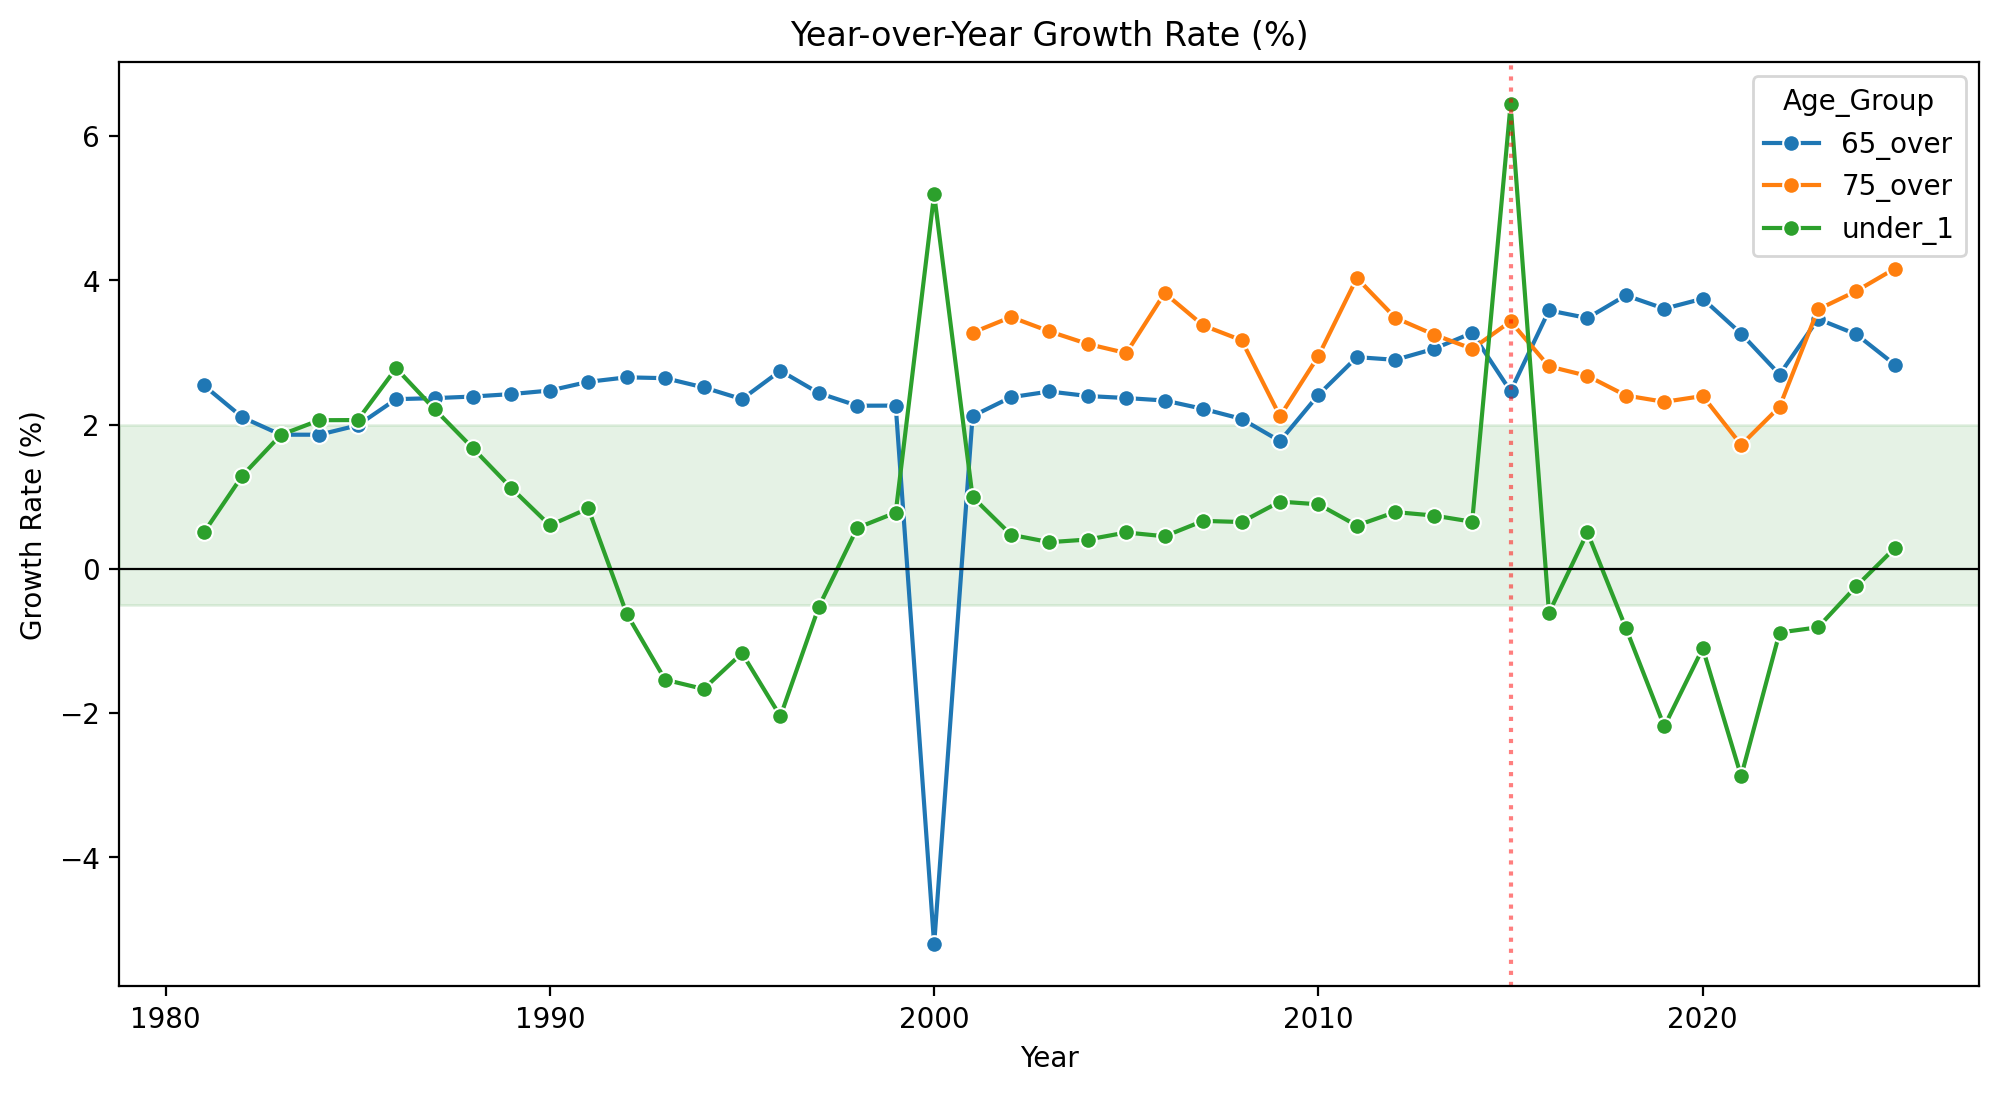
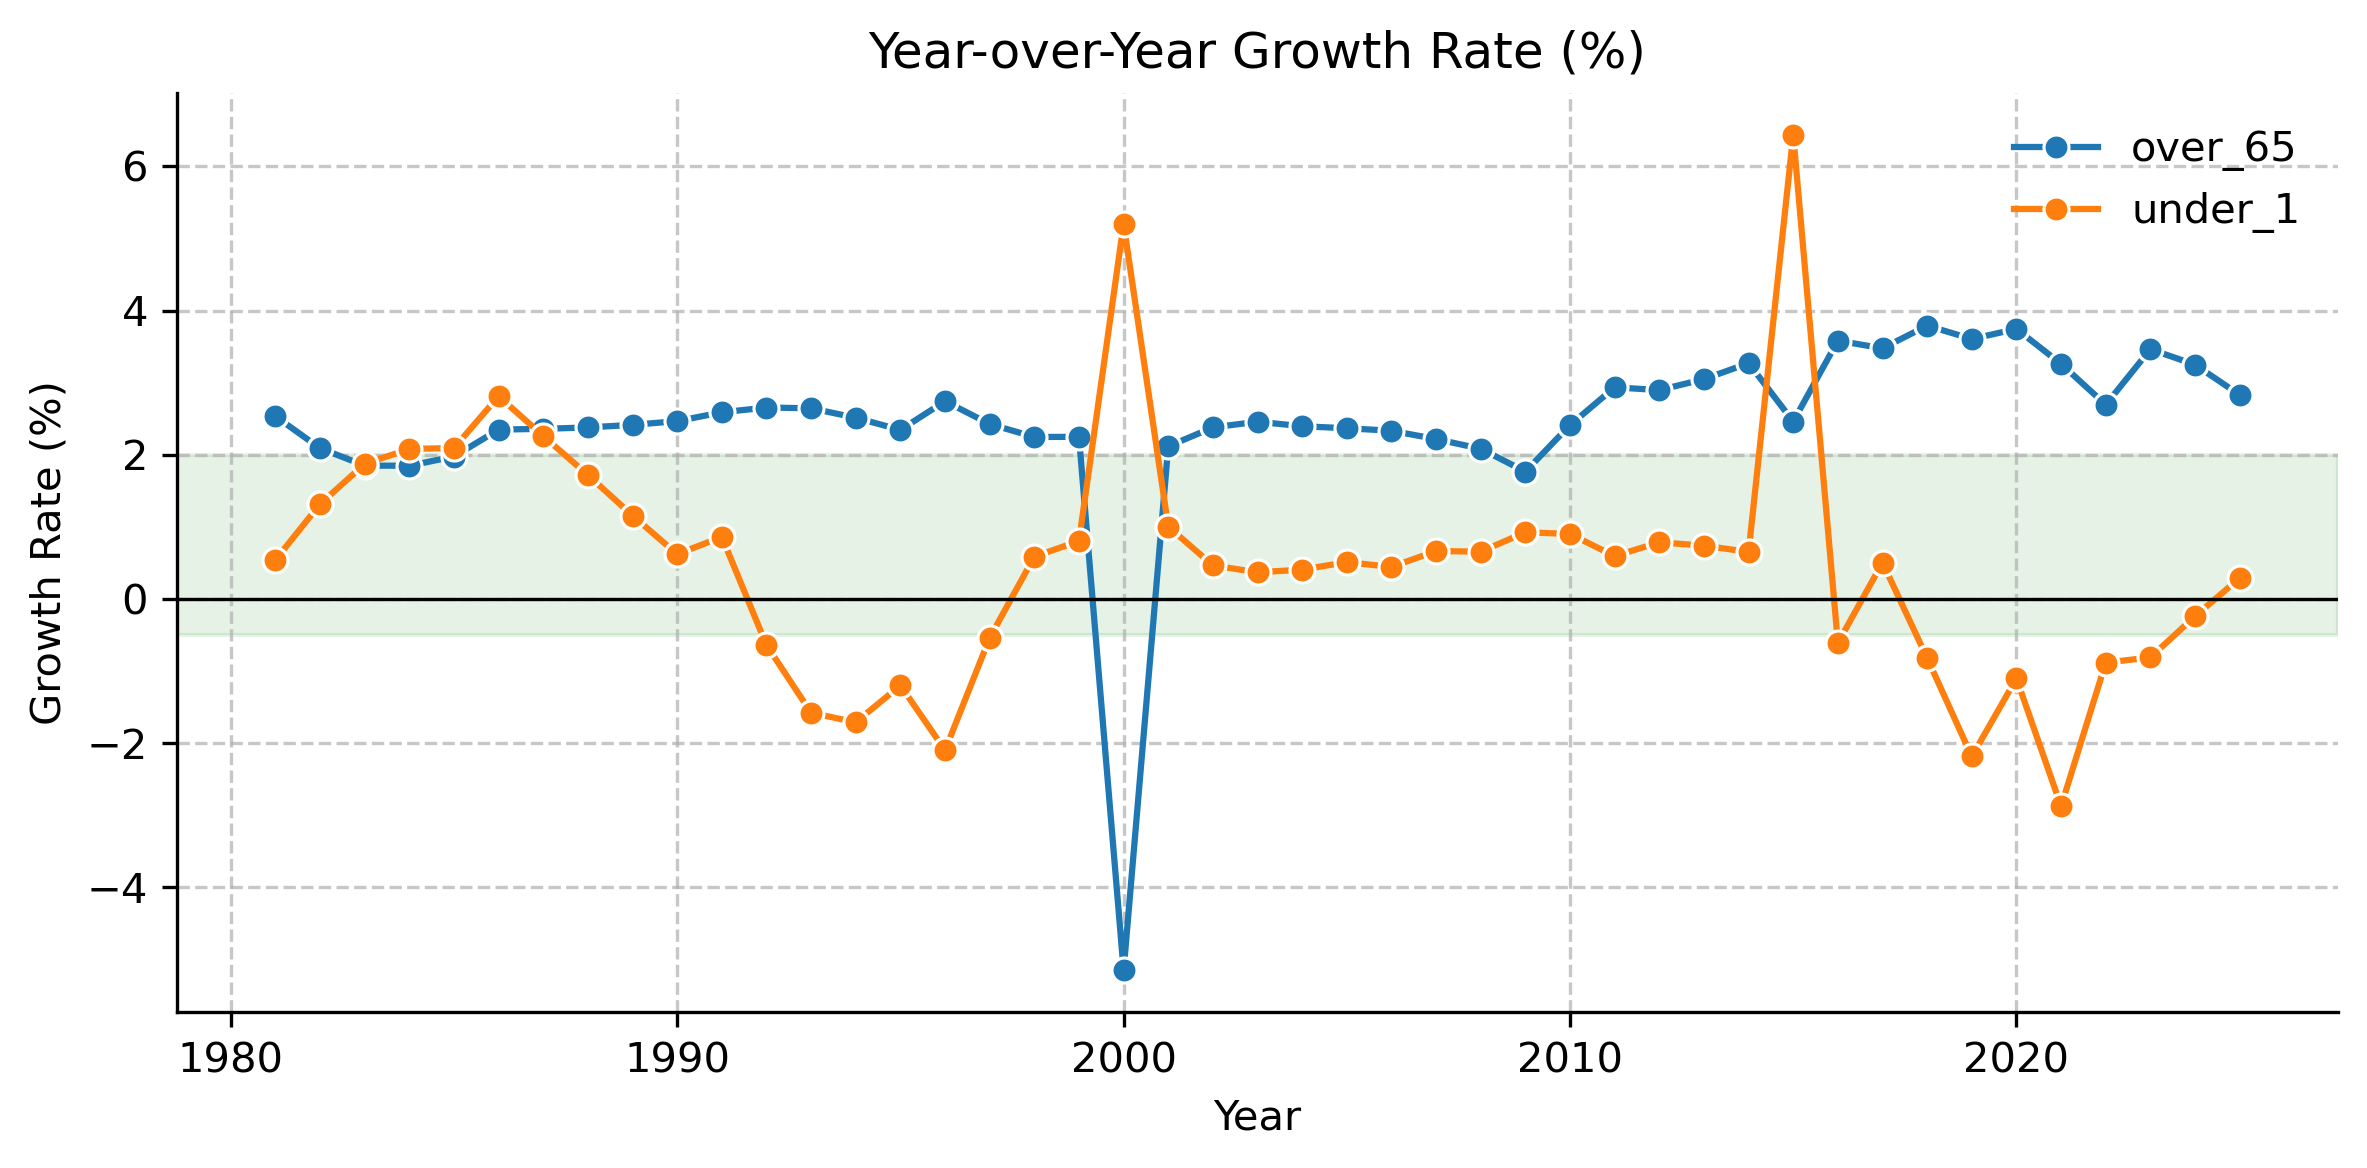
feat: update population plotting functions and streamline data handling

diff --git a/python_code/population/ca_plot_pop_trends.py b/python_code/population/ca_plot_pop_trends.py
@@ -4,7 +4,6 @@ Analyze and plot population trends for renamed ERA5-compatible total files.
 This script looks for files named like:
   t_under_1_2021_era5_compatible.nc
   t_65_over_2022_era5_compatible.nc
-  t_75_over_2023_era5_compatible.nc
 
 It aggregates global totals and produces diagnostic plots and Hovmöller (latitude vs year)
 visualizations to help detect discontinuities between years.
@@ -26,178 +25,18 @@ import geopandas as gpd
 from shapely.geometry import box
 
 # Assuming your config is accessible
-from my_config import DirsLocal, Vars
-
-
-def robust_open_pop(path: Path):
-    """Open a combined NetCDF file and return an xarray DataArray for population.
-
-    - Accepts Path or string.
-    - Renames 'time' dim to 'year' if needed.
-    - Returns a DataArray (pop) or raises FileNotFoundError.
-    """
-    path = Path(path)
-    if not path.exists():
-        raise FileNotFoundError(f"File not found: {path}")
-
-    ds = xr.open_dataset(path)
-
-    # Normalize time dimension name
-    if "time" in ds.dims and "year" not in ds.dims:
-        ds = ds.rename({"time": "year"})
-
-    # If dataset contains 'pop' variable, return it; otherwise try to pick the first data var
-    if "pop" in ds.data_vars:
-        da = ds["pop"]
-    else:
-        # pick first variable
-        varname = list(ds.data_vars)[0]
-        da = ds[varname]
-
-    return da
+from my_config import DirsLocal, Vars, FilesLocal
 
 
 def save_fig(fig, name: str):
     """Save figure to the interim directory with a consistent name."""
-    out_dir = Path(DirsLocal.dir_figures)
+    out_dir = Path(DirsLocal.figures)
     out_dir.mkdir(parents=True, exist_ok=True)
     out_path = out_dir / name
-    fig.savefig(out_path, dpi=200, bbox_inches="tight")
-    plt.close(fig)
-
-
-def plot_population_map(data, label, year=2001, bounds=(0, 35, 20, 47), v_max=20000):
-    # Create a figure and axis with a cartopy projection centered on longitude 0
-    fig, ax = plt.subplots(
-        subplot_kw={"projection": ccrs.PlateCarree(central_longitude=0)},
-        constrained_layout=True,
-    )
-    # Add features to the map
-    ax.add_feature(cfeature.BORDERS, linestyle=":")
-    ax.add_feature(cfeature.COASTLINE)
-    ax.add_feature(cfeature.LAND, edgecolor="black")
-    ax.add_feature(cfeature.OCEAN)
-
-    # Select the data for the specified year
-    data = data.sel(year=year)
-
-    # Set the CRS for the data
-    data = data.rio.write_crs("EPSG:4326")
-
-    if bounds:
-        # Create a GeoDataFrame with the specified bounds
-        gdf = gpd.GeoDataFrame(geometry=[box(*bounds)], crs="EPSG:4326")
-
-        # Clip the data using the GeoDataFrame
-        data = data.rio.clip(gdf.geometry.values, gdf.crs, drop=True)
-
-    # Plot the population data
-    data.plot(
-        vmax=v_max,
-        cmap="viridis",
-        ax=ax,
-        cbar_kwargs={"orientation": "horizontal", "pad": 0.05, "label": "Population"},
-    )
-
-    plt.title(f"{label.capitalize()} population in {year}")
-    # Show the plot
-    plt.savefig(DirsLocal.dir_figures / f"pop_data_{label}_{year}.png")
-    plt.show()
-
-
-def analyze_population_time_series(directory, ages_array):
-    """
-    Scans a directory for t_... files, aggregates global totals,
-    and generates diagnostic plots to find discontinuities.
-
-    ages_array: list of filename age labels, e.g. ['under_1','65_over','75_over']
-    """
-    directory = Path(directory)
-    records = []
-
-    age_groups = list(ages_array)
-
-    print(f"Scanning directory: {directory}")
-
-    for age_str in age_groups:
-        files = sorted(list(directory.glob(f"t_{age_str}_*_era5_compatible.nc")))
-
-        if not files:
-            print(f"No files found for age group: {age_str}")
-            continue
-
-        for file in tqdm(files, desc=f"Reading {age_str}"):
-            try:
-                m = re.search(r"(19|20)\d{2}", file.name)
-                if not m:
-                    print(f"  Could not find year in filename: {file.name}")
-                    continue
-                year = int(m.group(0))
-
-                with xr.open_dataset(file) as ds:
-                    if "pop" not in ds:
-                        print(f"  'pop' variable not in {file.name}; skipping")
-                        continue
-                    total_pop = float(ds["pop"].sum().item())
-
-                    records.append(
-                        {
-                            "Year": year,
-                            "Age_Group": age_str,
-                            "Total_Population": total_pop,
-                            "Path": file,
-                        }
-                    )
-            except Exception as e:
-                print(f"Error reading {file.name}: {e}")
-
-    if not records:
-        print("No data found to plot.")
-        return
-
-    df = pd.DataFrame(records).sort_values(["Age_Group", "Year"]).reset_index(drop=True)
-
-    # Print absolute values table (people) for quick inspection
-    pivot = df.pivot(
-        index="Year", columns="Age_Group", values="Total_Population"
-    ).sort_index()
-    pd.options.display.float_format = "{:,.0f}".format
-    print("\nAbsolute totals (people) by year and age group:")
-    print(pivot.to_string())
-
-    # Add a helper column for plotting in millions (readable axis)
-    df_plot = df.copy()
-    df_plot["Total_Pop_Millions"] = df_plot["Total_Population"] / 1e6
-
-    # 2. Plot 1: Total Global Population (Absolute Numbers)
-    plt.figure(figsize=(12, 6))
-    sns.lineplot(
-        data=df_plot, x="Year", y="Total_Pop_Millions", hue="Age_Group", marker="o"
-    )
-    plt.title("Global Population Trend (Check for Steps/Jumps)")
-    plt.ylabel("Total People (millions)")
-    plt.grid(True, which="both", linestyle="--", alpha=0.7)
-    plt.axvline(
-        x=2015, color="r", linestyle=":", alpha=0.5, label="Potential Splice (2015)"
-    )
-    plt.legend()
-    plt.show()
-
-    # 3. Plot 2: Year-over-Year Growth Rate (The "Jump" Detector)
-    df["Growth_Rate"] = df.groupby("Age_Group")["Total_Population"].pct_change() * 100
-
-    plt.figure(figsize=(12, 6))
-    sns.lineplot(data=df, x="Year", y="Growth_Rate", hue="Age_Group", marker="o")
-    plt.title("Year-over-Year Growth Rate (Artifact Detector)")
-    plt.ylabel("Growth Rate (%)")
-    plt.axhline(0, color="k", linewidth=0.8)
-    # Highlight normal range (approx -0.5% to +2.0%)
-    plt.axhspan(-0.5, 2.0, color="green", alpha=0.1, label="Expected Normal Growth")
-    plt.axvline(x=2015, color="r", linestyle=":", alpha=0.5)
-    plt.legend()
-    plt.show()
-
-    return df
+    plt.tight_layout()
+    sns.despine()
+    plt.legend(frameon=False)
+    fig.savefig(out_path, bbox_inches="tight")
 
 
 # --- ADVANCED PLOT: Zonal Statistics ---
@@ -369,7 +208,7 @@ def plot_zonal_hovmoller(directory, age_label="under_1"):
 
 
 # --- COMBINED DATASET PLOTTING ---
-def plot_population_trends_from_combined(infants_da, elderly_da, elderly75_da):
+def plot_population_trends_from_combined(infants_da, elderly_da):
     """Produce trend plots (millions, growth rate, absolute) and save them."""
 
     # Helper to get summed series
@@ -384,7 +223,6 @@ def plot_population_trends_from_combined(infants_da, elderly_da, elderly75_da):
 
     inf_sum = summed_series(infants_da)
     eld_sum = summed_series(elderly_da)
-    eld75_sum = summed_series(elderly75_da)
 
     # Build DataFrame for plotting
     def series_to_df(s, label):
@@ -394,16 +232,15 @@ def plot_population_trends_from_combined(infants_da, elderly_da, elderly75_da):
 
     df = pd.concat(
         [
-            series_to_df(inf_sum, "under_1"),
-            series_to_df(eld_sum, "65_over"),
-            series_to_df(eld75_sum, "75_over"),
+            series_to_df(inf_sum, Vars.infants),
+            series_to_df(eld_sum, Vars.over_65),
         ],
         ignore_index=True,
     )
     df = df.sort_values(["Age_Group", "Year"]).reset_index(drop=True)
 
     # Plot 1: Total (millions)
-    fig, ax = plt.subplots(figsize=(12, 6))
+    fig, ax = plt.subplots()
     sns.lineplot(
         data=df,
         x="Year",
@@ -415,30 +252,21 @@ def plot_population_trends_from_combined(infants_da, elderly_da, elderly75_da):
     ax.set_title("Global Population Trend (millions)")
     ax.set_ylabel("Total People (millions)")
     ax.grid(True, which="both", linestyle="--", alpha=0.7)
-    ax.axvline(x=2015, color="r", linestyle=":", alpha=0.5)
+    # ax.axvline(x=2015, color="r", linestyle=":", alpha=0.5)
     save_fig(fig, "global_population_trend_millions.png")
+    plt.show()
 
     # Plot 2: Growth rate
     df["Growth_Rate"] = df.groupby("Age_Group")["Total_Population"].pct_change() * 100
-    fig, ax = plt.subplots(figsize=(12, 6))
+    fig, ax = plt.subplots()
     sns.lineplot(data=df, x="Year", y="Growth_Rate", hue="Age_Group", marker="o", ax=ax)
     ax.set_title("Year-over-Year Growth Rate (%)")
     ax.set_ylabel("Growth Rate (%)")
     ax.axhline(0, color="k", linewidth=0.8)
     ax.axhspan(-0.5, 2.0, color="green", alpha=0.1)
-    ax.axvline(x=2015, color="r", linestyle=":", alpha=0.5)
-    save_fig(fig, "global_population_growth_rate.png")
-
-    # Plot 3: Absolute totals (raw counts)
-    fig, ax = plt.subplots(figsize=(12, 6))
-    sns.lineplot(
-        data=df, x="Year", y="Total_Population", hue="Age_Group", marker="o", ax=ax
-    )
-    ax.set_title("Global Population Trend — Absolute Counts")
-    ax.set_ylabel("Total People")
     ax.grid(True, which="both", linestyle="--", alpha=0.7)
-    ax.axvline(x=2015, color="r", linestyle=":", alpha=0.5)
-    save_fig(fig, "global_population_trend_absolute.png")
+    save_fig(fig, "global_population_growth_rate.png")
+    plt.show()
 
 
 def plot_hovmoller_from_da(da, age_label="under_1"):
@@ -516,76 +344,42 @@ def plot_hovmoller_from_da(da, age_label="under_1"):
     save_fig(fig, f"hovmoller_{age_label}.png")
 
 
-def plot_population_trends(infants_da, elderly_da, elderly75_da):
+def plot_population_trends(infants_da, elderly_da):
     fig, axs = plt.subplots(1, 1, sharey=True)
     inf_sum = infants_da.sum(dim=["latitude", "longitude"])
     eld_sum = elderly_da.sum(dim=["latitude", "longitude"])
-    eld_75 = elderly75_da.sum(dim=["latitude", "longitude"])
     axs.scatter(inf_sum.year, inf_sum / 10**6, label="Infants")
     axs.scatter(eld_sum.year, eld_sum / 10**6, label="Above 65")
-    axs.scatter(eld_75.year, eld_75 / 10**6, label="Above 75")
     axs.legend()
     axs.set(xlabel="Year", ylabel="Population (millions)")
     plt.tight_layout()
-    plt.savefig(DirsLocal.dir_figures / "pop_data_trends.png")
+    plt.savefig(DirsLocal.figures / "pop_data_trends.png")
     plt.show()
 
-    for data, label in zip(
-        [eld_sum, eld_75, inf_sum], ["65_over", "75_over", "infants"]
-    ):
+    for data, label in zip([eld_sum, inf_sum], ["65_over", "infants"]):
         fig, axs = plt.subplots(1, 1, sharey=True)
         axs.scatter(data.year, data / 10**6, label=label)
         axs.legend()
         axs.set(xlabel="Year", ylabel="Population (millions)")
         plt.tight_layout()
-        plt.savefig(DirsLocal.dir_figures / f"pop_data_trends_{label}.png")
+        plt.savefig(DirsLocal.figures / f"pop_data_trends_{label}.png")
         plt.show()
 
 
 def main():
     """Load combined files and produce all plots, saving them into the interim folder."""
-    # Paths (these should be created by c_pop_data_combine.py)
-    path_inf = Path(DirsLocal.dir_pop_infants_file)
-    path_eld = Path(DirsLocal.dir_pop_elderly_file)
-    path_75 = Path(DirsLocal.dir_pop_above_75_file)
 
     # Load combined datasets
-    infants_da = robust_open_pop(path_inf)
-    elderly_da = robust_open_pop(path_eld)
-    elderly75_da = robust_open_pop(path_75)
+    infants_da = xr.open_dataset(FilesLocal.pop_infant)
+    elderly_da = xr.open_dataset(FilesLocal.pop_over_65)
 
     # Trend plots (global totals, growth rate, absolute counts)
-    plot_population_trends_from_combined(infants_da, elderly_da, elderly75_da)
+    plot_population_trends_from_combined(infants_da=infants_da, elderly_da=elderly_da)
 
     # Hovmöller per group
     plot_hovmoller_from_da(infants_da, age_label="under_1")
     plot_hovmoller_from_da(elderly_da, age_label="65_over")
-    plot_hovmoller_from_da(elderly75_da, age_label="75_over")
-
-    # Sample year maps (latest)
-    sample_year = getattr(Vars, "year_max_analysis", None)
-
-    plot_population_map(
-        infants_da, label="infants", year=sample_year, bounds=None, v_max=20000
-    )
-    plot_population_map(
-        elderly_da, label="elderly", year=sample_year, bounds=None, v_max=20000
-    )
-    plot_population_map(
-        elderly75_da, label="75_over", year=sample_year, bounds=None, v_max=20000
-    )
-
-    # Also show interactive quick plots if requested
-    df = analyze_population_time_series(
-        directory=DirsLocal.pop_e5l_grid,
-        ages_array=["under_1", "65_over", "75_over"],
-    )  # legacy per-year t_ files
-    print("Interactive summary (legacy t_ files):")
-    print(df.head())
-
-    plot_population_trends(infants_da, elderly_da, elderly75_da)
 
 
 if __name__ == "__main__":
-    # pass
     main()

diff --git a/my_config.py b/my_config.py
@@ -1,6 +1,12 @@
+import os
 from datetime import datetime
 from pathlib import Path
 from typing import List
+
+from matplotlib import pyplot as plt
+
+plt.rcParams["figure.figsize"] = [8, 4]
+plt.rcParams["savefig.dpi"] = 300
 
 
 class Vars:
@@ -52,6 +58,7 @@ class DirsLocal:
         "/Users/ftar3919/Library/CloudStorage/OneDrive-TheUniversityofSydney(Staff)"
     )
     data = one_drive / "data" / "lancet" / "countdown-global"
+    project = Path(os.getcwd())
 
     # local directory for ERA5-Land data
     e5l_h = data / Dirs.e5l / Dirs.e5l_h / Dirs.e5l_t
@@ -67,6 +74,9 @@ class DirsLocal:
     pop_raw_ssd = data / Dirs.pop / "raw"
     pop_e5l_grid = data / Dirs.pop / (Dirs.e5l + "-grid")
     pop_e5l_grid_combined = data / Dirs.pop / (Dirs.e5l + "-grid-combined")
+
+    manuscript = project / "manuscript"
+    figures = manuscript / f"{Vars.year_report}" / "figures"
 
 
 class FilesLocal:
